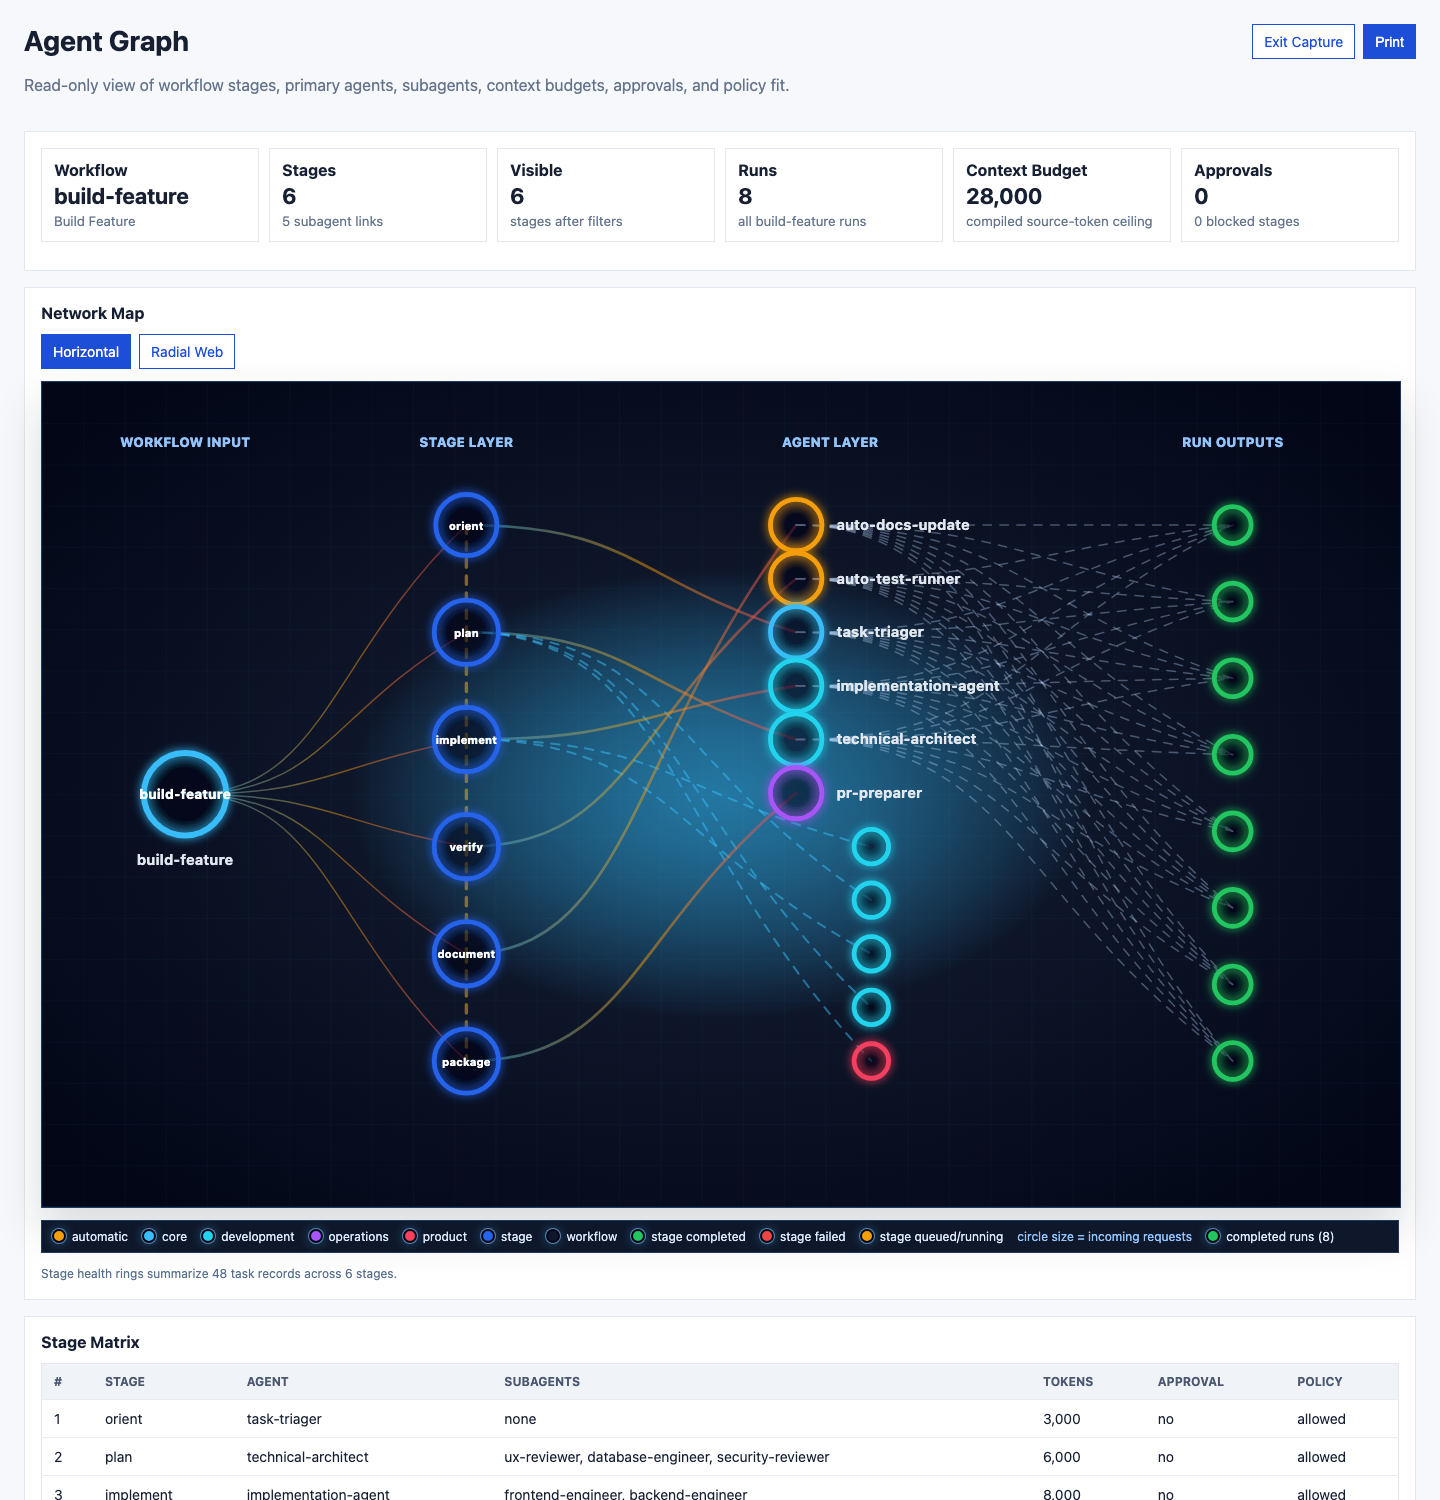
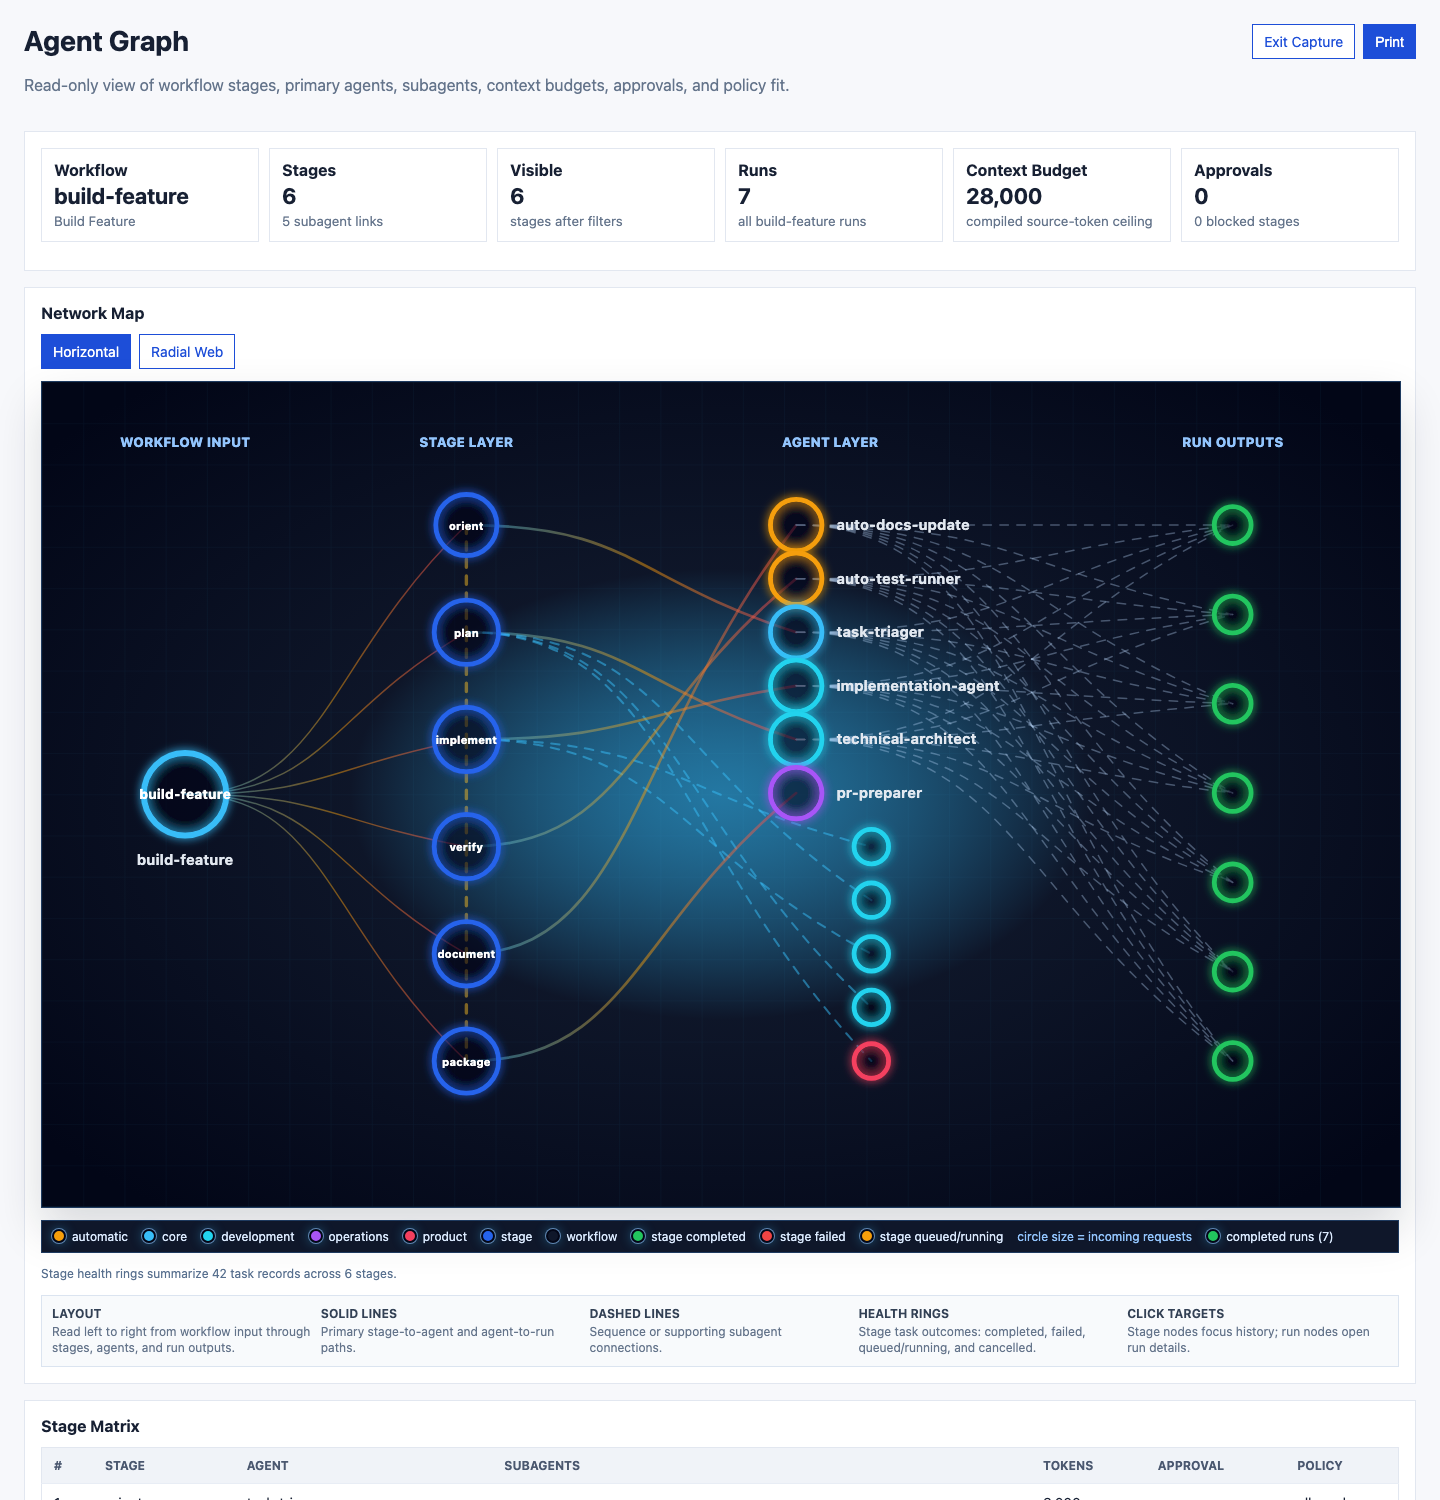
Add workflow graph state explainer

diff --git a/apps/cli/src/index.ts b/apps/cli/src/index.ts
@@ -6168,6 +6168,7 @@ function renderWorkflowNetworkHtml(report: DashboardWorkflowGraphReport, stages:
   const stageHealthSummary = report.stageHealth.length
     ? `Stage health rings summarize ${formatNumber(totalStageHealthTasks)} task records across ${formatNumber(report.stageHealth.length)} stages.`
     : "Stage health rings appear when selected runs include task-level stage history.";
+  const explainer = renderNetworkStateExplainer(isRadial);
   const networkDefs = `<defs>
         <radialGradient id="neuralCoreGlow" cx="50%" cy="50%" r="65%">
           <stop offset="0%" stop-color="#38bdf8" stop-opacity="0.62"></stop>
@@ -6207,7 +6208,24 @@ function renderWorkflowNetworkHtml(report: DashboardWorkflowGraphReport, stages:
     </svg>
     <div class="network-legend">${legend}<span><i class="legend-stage"></i>stage</span><span><i class="legend-workflow"></i>workflow</span><span><i class="legend-health-completed"></i>stage completed</span><span><i class="legend-health-failed"></i>stage failed</span><span><i class="legend-health-active"></i>stage queued/running</span><span class="legend-note">circle size = incoming requests</span>${runLegend}</div>
     <p class="network-health-summary">${escapeHtml(stageHealthSummary)}</p>
+    ${explainer}
   </div>`;
+}
+
+function renderNetworkStateExplainer(isRadial: boolean): string {
+  const layoutText = isRadial
+    ? "Read outward from the workflow core through stage, agent, and run rings."
+    : "Read left to right from workflow input through stages, agents, and run outputs.";
+  const items = [
+    ["Layout", layoutText],
+    ["Solid Lines", "Primary stage-to-agent and agent-to-run paths."],
+    ["Dashed Lines", "Sequence or supporting subagent connections."],
+    ["Health Rings", "Stage task outcomes: completed, failed, queued/running, and cancelled."],
+    ["Click Targets", "Stage nodes focus history; run nodes open run details."]
+  ];
+  return `<div class="network-explainer">${items.map(([label, text]) => `
+    <div><strong>${escapeHtml(label)}</strong><span>${escapeHtml(text)}</span></div>
+  `).join("")}</div>`;
 }
 
 function formatStageHealthTitle(health: DashboardWorkflowStageHealth): string {
@@ -9477,6 +9495,10 @@ function dashboardCss(): string {
     .network-legend .legend-health-failed { background: #ef4444; }
     .network-legend .legend-health-active { background: #f59e0b; }
     .network-health-summary { margin: 0; color: #58708f; font-size: 12px; }
+    .network-explainer { display: grid; grid-template-columns: repeat(auto-fit, minmax(180px, 1fr)); gap: 8px; background: #f8fafc; border: 1px solid #dbe4f0; padding: 10px; }
+    .network-explainer div { display: grid; gap: 3px; }
+    .network-explainer strong { color: #334155; font-size: 12px; text-transform: uppercase; }
+    .network-explainer span { color: #64748b; font-size: 12px; line-height: 1.35; }
     .focused-stage-panel { border-color: #93c5fd; box-shadow: inset 3px 0 0 #2563eb; }
     .comparison-layout { display: grid; grid-template-columns: minmax(210px, 260px) minmax(0, 1fr); gap: 16px; align-items: start; }
     .suite-list { background: white; border: 1px solid #e2e7f0; padding: 14px; display: grid; gap: 8px; position: sticky; top: 20px; }

diff --git a/docs/roadmap.md b/docs/roadmap.md
@@ -186,7 +186,8 @@ trust gaps.
   - Done: tag suggested fix runs with source workflow/stage metadata and show related debug-run outcomes in the focused stage panel.
   - Done: link completed suggested-fix runs to tagged source-workflow reruns for verification.
   - Done: calculate and display visual before/after stage-health deltas between the source history and verification reruns.
-  - Next: add a compact graph legend/state explainer for developer onboarding and screenshot readability.
+  - Done: add a compact graph legend/state explainer for developer onboarding and screenshot readability.
+  - Next: add a graph handoff export that saves the selected graph URL, filters, and current health summary beside project reports.
 
 - [x] Optional model-improvement workflow pack.
   - Done: add reusable agents and a `model-improvement` workflow to diagnose whether a quality issue is best handled by context, prompts, routing, eval coverage, retrieval, or model fine-tuning.

diff --git a/docs/user-guide.md b/docs/user-guide.md
@@ -256,7 +256,9 @@ circular web with workflow core, stage ring, agent ring, and recent run-history
 orbit. In the network map, luminous signal paths show stage-to-agent and
 agent-to-run relationships, transparent nodes glow by type or status, stage
 nodes are labeled by stage name, and node size grows with incoming request count
-so heavily used agents, stages, and runs stand out. When selected runs include
+so heavily used agents, stages, and runs stand out. A compact explainer below
+the map describes layer direction, solid and dashed signal paths, health rings,
+and click targets for onboarding and screenshots. When selected runs include
 task-level stage history, stage nodes also show a health ring for completed,
 failed, queued/running, and cancelled task outcomes. Click a stage node to focus
 recent run/task history for that workflow step, use **Suggest Fix** to queue a
